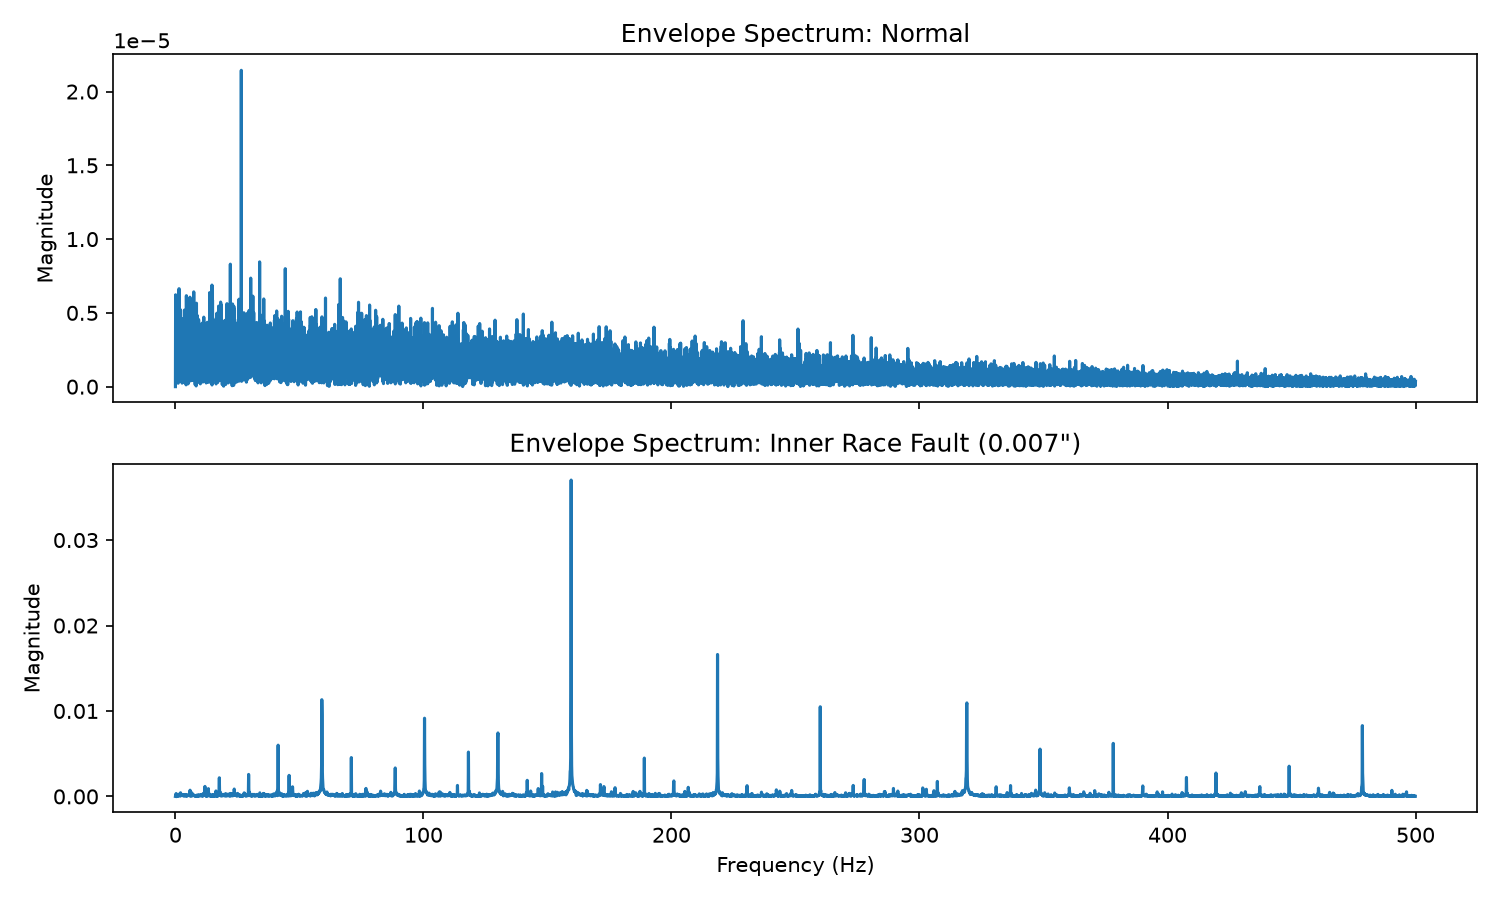
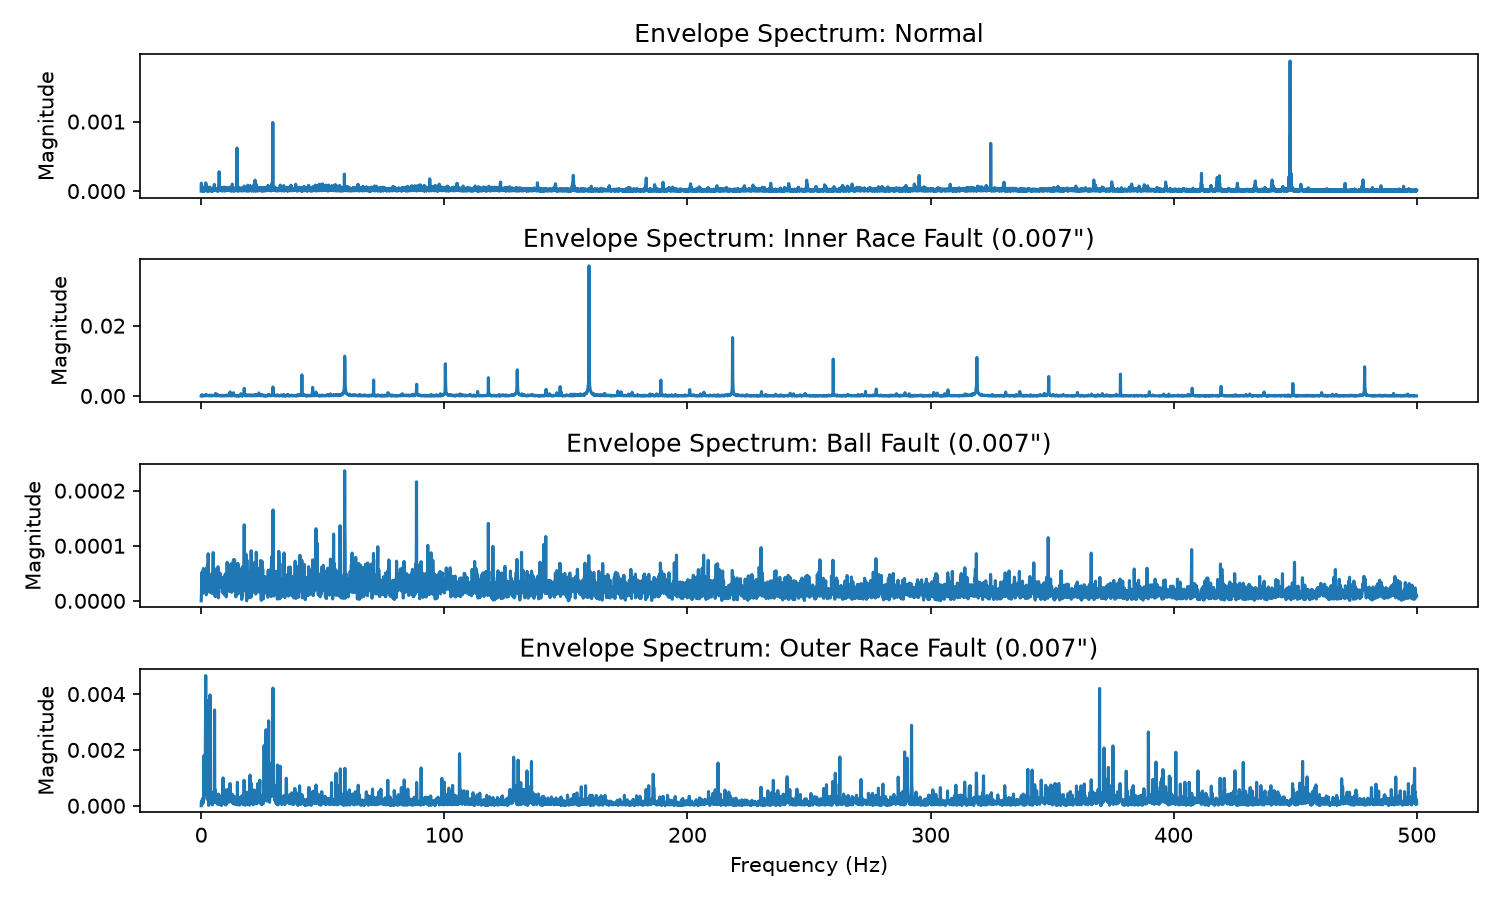
Improve envelope band selection and add tests

diff --git a/src/envelope_analysis.py b/src/envelope_analysis.py
@@ -1,7 +1,9 @@
 import numpy as np
 import matplotlib.pyplot as plt
 from scipy.signal import stft, butter, filtfilt, hilbert, find_peaks
-from data_loader import load_de_signal
+from .data_loader import load_de_signal
+from pathlib import Path
+
 
 SAMPLING_RATE = 12000  # Hz
 
@@ -21,17 +23,30 @@ def spectral_kurtosis(signal, fs, nperseg=256):
 
 
 def best_band(freqs, kurt, fs, min_freq=500, bandwidth=1000):
-    """Find the frequency band with peak spectral kurtosis, above min_freq
-    to avoid low-frequency shaft rotation harmonics, and safely below Nyquist."""
+    """Select the most impulsive band that fits at the full bandwidth."""
     nyquist = fs / 2
-    max_freq = nyquist * 0.95  # stay safely under Nyquist
+    max_freq = nyquist * 0.95
+    half_bandwidth = bandwidth / 2
 
-    mask = (freqs >= min_freq) & (freqs <= max_freq)
-    peak_idx = np.argmax(kurt[mask])
-    center_freq = freqs[mask][peak_idx]
+    minimum_center = min_freq + half_bandwidth
+    maximum_center = max_freq - half_bandwidth
 
-    low = max(center_freq - bandwidth / 2, min_freq)
-    high = min(center_freq + bandwidth / 2, max_freq)
+    mask = (
+        (freqs >= minimum_center)
+        & (freqs <= maximum_center)
+    )
+
+    if not np.any(mask):
+        raise ValueError(
+            "No valid band centre can fit the requested bandwidth"
+        )
+
+    peak_index = np.argmax(kurt[mask])
+    center_freq = freqs[mask][peak_index]
+
+    low = center_freq - half_bandwidth
+    high = center_freq + half_bandwidth
+
     return low, high, center_freq
 
 
@@ -78,9 +93,11 @@ def analyze(filename, label):
 if __name__ == "__main__":
     results = []
     for label, filename in [
-        ("Normal", "Normal_1hp.mat"),
-        ("Inner Race Fault (0.007\")", "IR007_1hp.mat"),
-    ]:
+    ("Normal", "Normal_1hp.mat"),
+    ("Inner Race Fault (0.007\")", "IR007_1hp.mat"),
+    ("Ball Fault (0.007\")", "B007_1hp.mat"),
+    ("Outer Race Fault (0.007\")", "OR007_1hp.mat"),
+]:
         results.append(analyze(filename, label))
 
     fig, axes = plt.subplots(len(results), 1, figsize=(10, 6), sharex=True)
@@ -91,6 +108,7 @@ if __name__ == "__main__":
         ax.set_ylabel("Magnitude")
     axes[-1].set_xlabel("Frequency (Hz)")
     plt.tight_layout()
-    plt.savefig("../figures/envelope_spectrum_comparison.png", dpi=150)
+    output_path = Path(__file__).resolve().parent.parent / "figures" / "envelope_spectrum_comparison.png"
+    fig.savefig(output_path, dpi=150)
     print("\nSaved plot to ../figures/envelope_spectrum_comparison.png")
     plt.show()

diff --git a/tests/test_envelope_analysis.py b/tests/test_envelope_analysis.py
@@ -1,0 +1,28 @@
+import unittest
+
+import numpy as np
+
+from src.envelope_analysis import best_band
+
+
+class TestBestBand(unittest.TestCase):
+    def test_selects_full_width_band_below_nyquist(self):
+        freqs = np.array([1000.0, 5000.0, 5700.0])
+        kurt = np.array([1.0, 2.0, 3.0])
+
+        low, high, center = best_band(freqs, kurt, fs=12000)
+
+        self.assertAlmostEqual(center, 5000.0)
+        self.assertAlmostEqual(high - low, 1000.0)
+        self.assertLessEqual(high, 5700.0)
+
+    def test_rejects_an_impossible_band(self):
+        freqs = np.array([5000.0])
+        kurt = np.array([1.0])
+
+        with self.assertRaises(ValueError):
+            best_band(freqs, kurt, fs=12000, min_freq=5500, bandwidth=1000)
+
+
+if __name__ == "__main__":
+    unittest.main()
